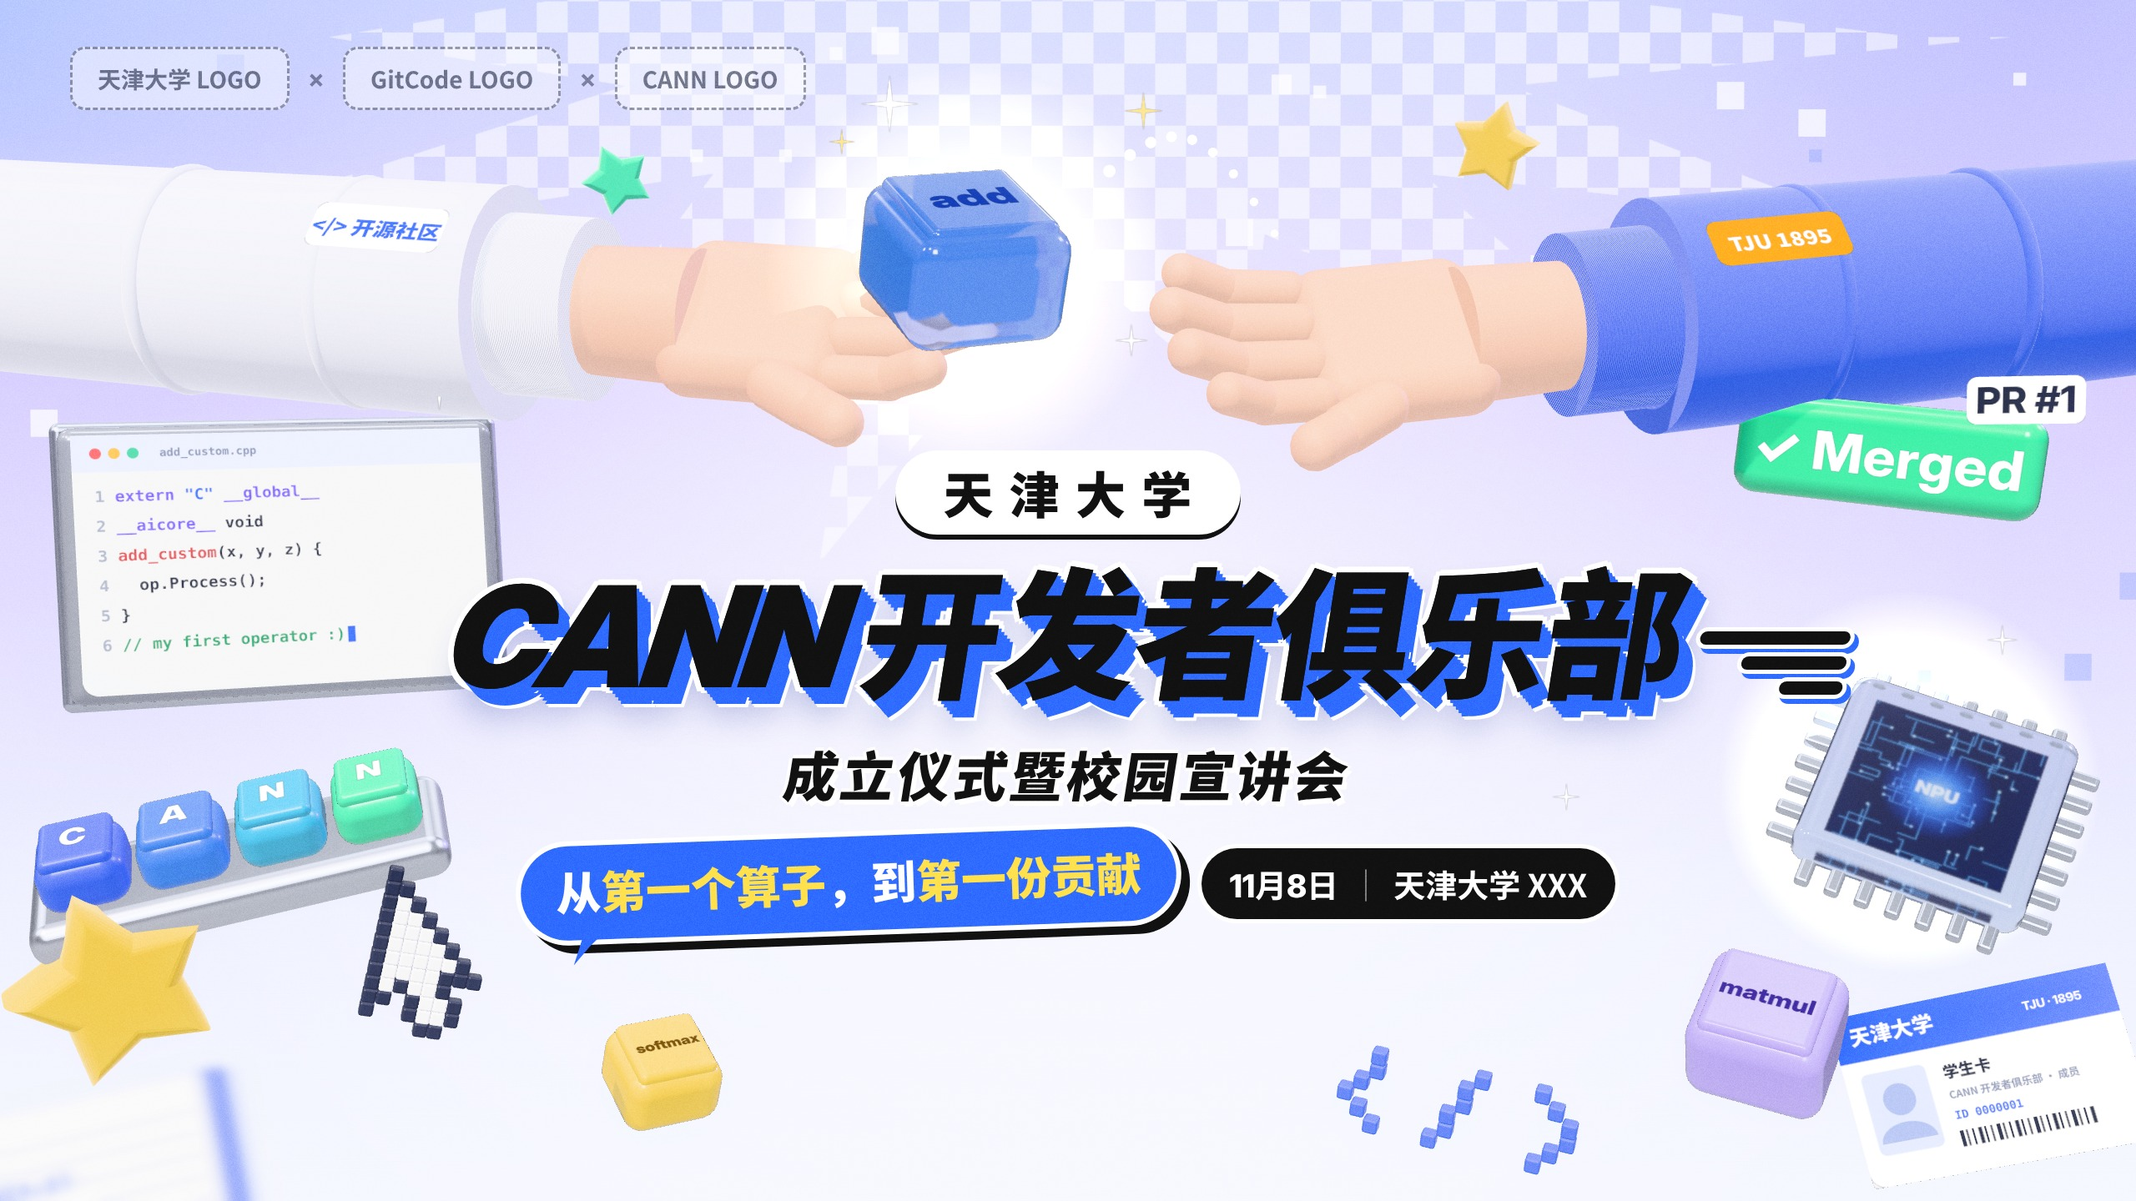
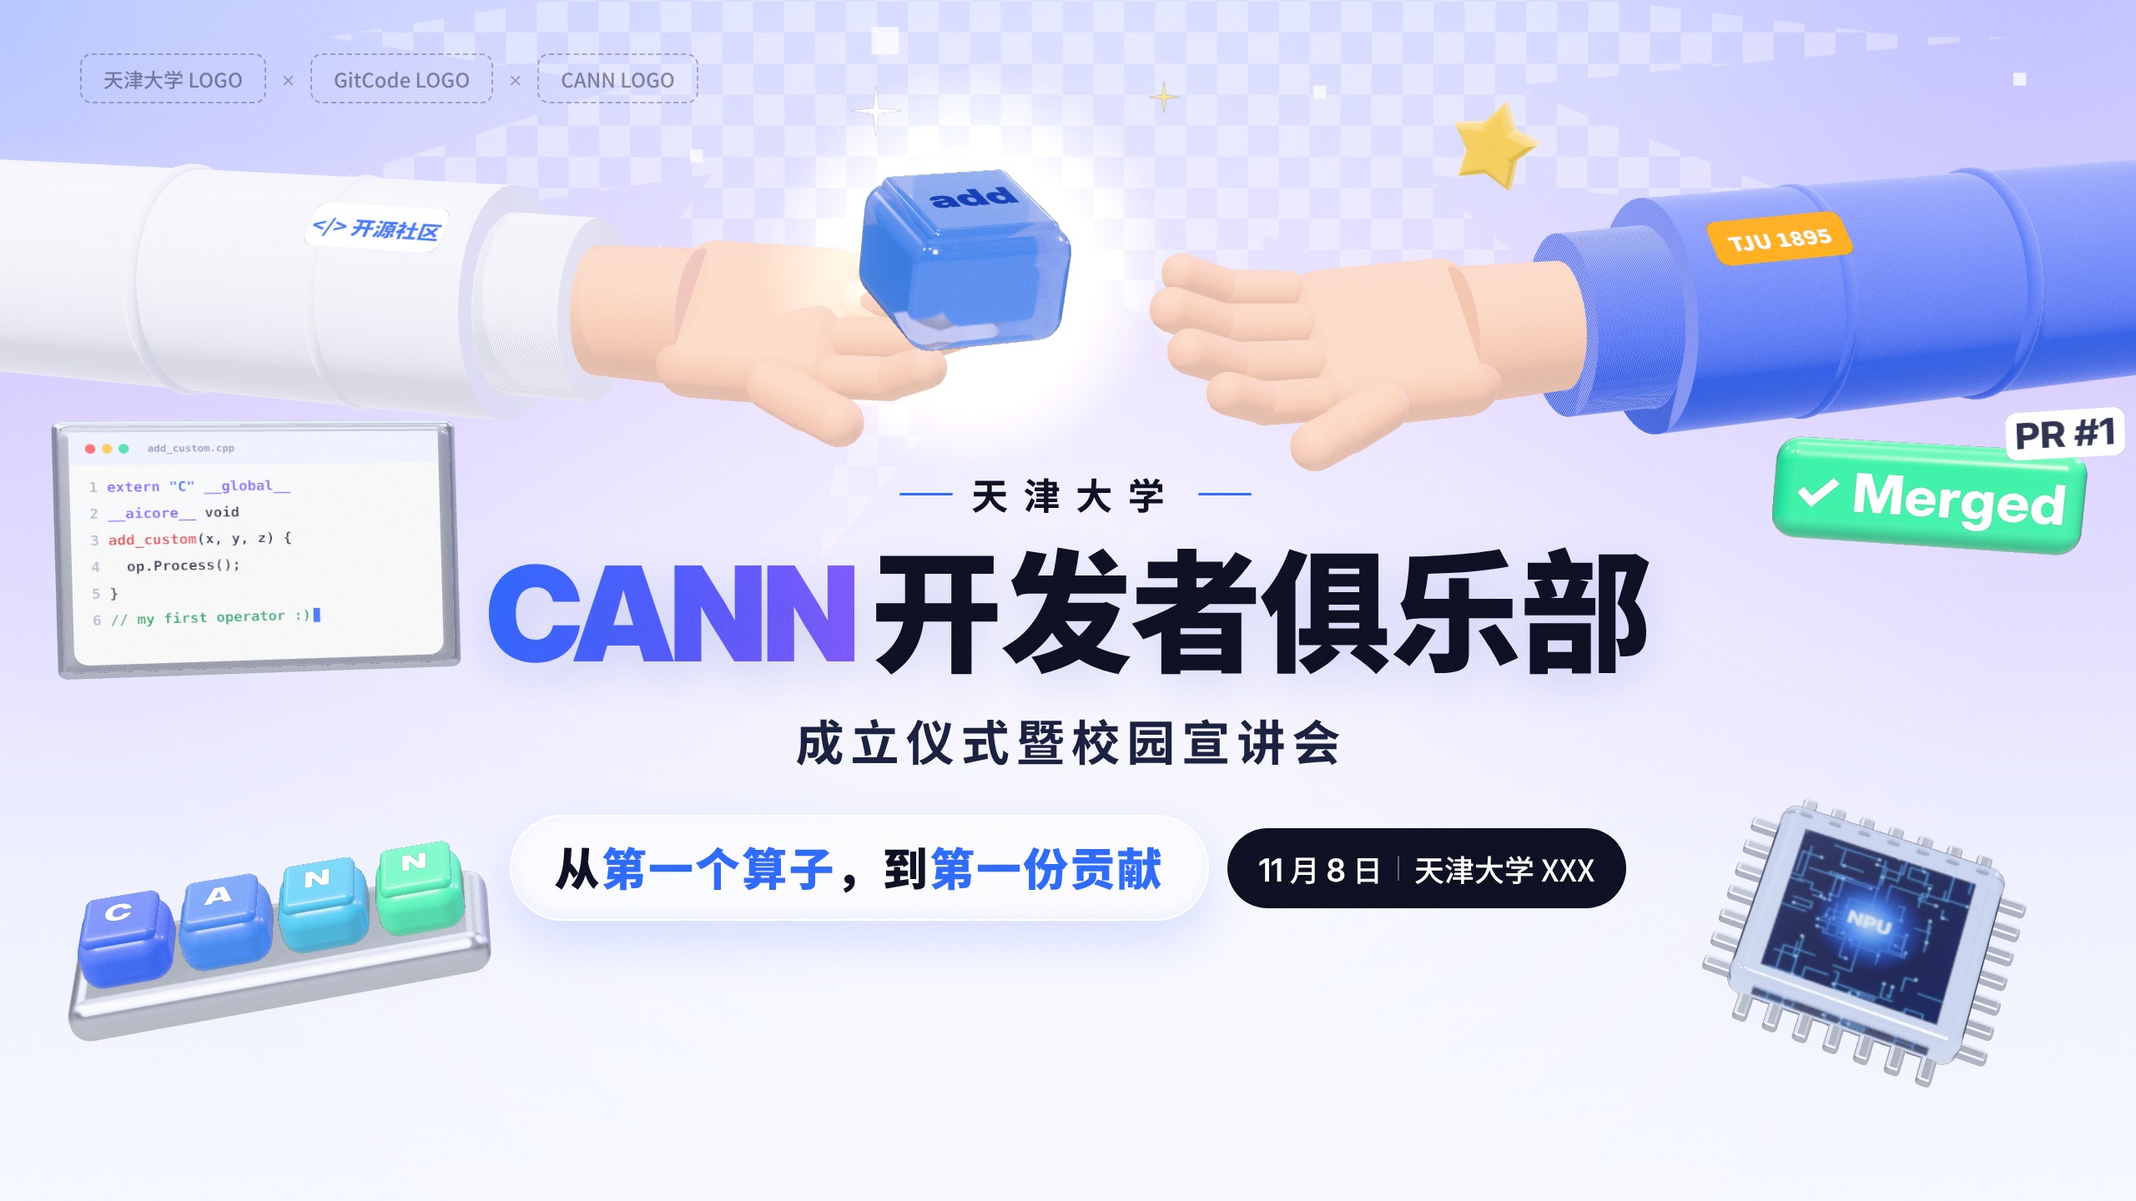
v1.3: fewer objects, refined title treatment; TJU KV round 2
Claude-Session: https://claude.ai/code/session_018XP7ZsHq4uNgpqYNwfhGvH

diff --git a/examples/tju-cann/v4/scene.html b/examples/tju-cann/v4/scene.html
@@ -68,11 +68,11 @@ function layerAll(o, l){ o.traverse(m=>m.layers.set(l)); }
     const cx=w*0.5, cy=h*0.18; const pts=14;
     for(let i=0;i<=pts*2;i++){ const a=i/(pts*2)*Math.PI*2; const r=(i%2? 0.13:0.27+0.06*Math.sin(i*1.7))*w; const x=cx+Math.cos(a)*r*1.25, y=cy+Math.sin(a)*r*0.6; i?g.lineTo(x,y):g.moveTo(x,y); }
     g.closePath(); g.clip();
-    const s=34; for(let y=0;y<h;y+=s) for(let x=0;x<w;x+=s){ if(((x/s)+(y/s))%2==0){ g.fillStyle='rgba(255,255,255,0.55)'; g.fillRect(x,y,s,s);} }
+    const s=34; for(let y=0;y<h;y+=s) for(let x=0;x<w;x+=s){ if(((x/s)+(y/s))%2==0){ g.fillStyle='rgba(255,255,255,0.32)'; g.fillRect(x,y,s,s);} }
     g.restore();
     // pixel fragments
     let seed=7; const rnd=()=> (seed=(seed*16807)%2147483647)/2147483647;
-    for(let i=0;i<70;i++){ const x=rnd()*w, y=rnd()*h*0.6; const sz=[14,22,30][Math.floor(rnd()*3)];
+    for(let i=0;i<26;i++){ const x=rnd()*w, y=rnd()*h*0.6; const sz=[14,22,30][Math.floor(rnd()*3)];
       if(Math.abs(x-w/2)<w*0.3 && y>h*0.35) continue;
       g.fillStyle = rnd()<0.6?'rgba(255,255,255,0.75)':'rgba(150,170,255,0.45)'; g.fillRect(Math.round(x/sz)*sz, Math.round(y/sz)*sz, sz, sz); }
   });
@@ -144,10 +144,9 @@ const hg = glowSprite('rgba(170,210,255,0.7)', 6, 0.45); hg.position.copy(hero.p
 const sparkTex = canvasTex(256,256,(g,w,h)=>{ g.translate(128,128); g.fillStyle='#fff'; g.beginPath();
   for(let i=0;i<8;i++){ const a=i*Math.PI/4, r=i%2?18:120; g.lineTo(Math.cos(a)*r, Math.sin(a)*r);} g.closePath(); g.fill(); });
 function spark(x,y,z,s,col=0xffffff){ const m=new THREE.Sprite(new THREE.SpriteMaterial({map:sparkTex,color:col,transparent:true,depthWrite:false,toneMapped:false})); m.position.set(x,y,z); m.scale.set(s,s,1); scene.add(m); return m; }
-spark(-2.6,8.1,1,0.9); spark(1.1,8.0,1,0.6,0xFFE680); spark(0.9,4.6,2,0.5); spark(-3.2,7.4,2,0.4,0xFFE680);
-spark(-9.5,4.0,0,0.7); spark(9.0,5.2,0,0.6,0xFFE680); spark(14.2,0.2,0,0.5); spark(-13.0,-2.8,0,0.5,0xFFE680); spark(7.6,-2.2,0,0.45);
+spark(-2.8,8.0,1,0.8); spark(1.4,8.2,1,0.5,0xFFE680);
+spark(-8.6,5.6,0,0.5); spark(8.8,6.0,0,0.45,0xFFE680);
 // dotted pass trail from keycap toward right hand
-for(let i=0;i<9;i++){ const t=i/8; const x=0.6+t*2.4, y=7.1+Math.sin(t*Math.PI)*0.9-t*0.9; const d=new THREE.Mesh(new THREE.SphereGeometry(0.09-0.004*i,12,12), new THREE.MeshBasicMaterial({color:0xffffff,toneMapped:false})); d.position.set(x,y,1.2); scene.add(d); }
 
 // ---------- code window (left)
 {
@@ -174,13 +173,13 @@ for(let i=0;i<9;i++){ const t=i/8; const x=0.6+t*2.4, y=7.1+Math.sin(t*Math.PI)*
   });
   const sc = new THREE.Mesh(new THREE.PlaneGeometry(6.0,3.94), new THREE.MeshBasicMaterial({map:screen, transparent:true, toneMapped:false}));
   sc.position.z=0.24; g.add(sc);
-  g.position.set(-12.2, 1.4, -1); g.rotation.set(-0.08, 0.38, 0.06); scene.add(g); shadowAll(frame);
+  g.scale.setScalar(0.9); g.position.set(-12.6, 1.6, -1); g.rotation.set(-0.06, 0.30, 0.03); scene.add(g); shadowAll(frame);
   // CANN keycaps on tray
   const tray = new THREE.Group();
   const base = new THREE.Mesh(new RoundedBoxGeometry(6.0,0.7,2.0,5,0.3), phys({color:0xE3E7F2, metalness:1, roughness:0.25})); tray.add(base);
   const cols=[0x2F6BFF,0x3E8BF5,0x46B5D8,0x4FDDAA];
   'CANN'.split('').forEach((ch,i)=>{ const k=keycap({w:1.25,h:0.9,d:1.25,color:cols[i],text:ch,font:'900 420px "Inter Display","Inter"'}); k.position.set(-2.1+i*1.4,0.7,0); tray.add(k); });
-  tray.position.set(-12.4,-3.2,0.5); tray.rotation.set(0.55,0.32,0.04); shadowAll(tray); scene.add(tray);
+  tray.position.set(-11.8,-4.5,0.5); tray.rotation.set(0.5,0.26,0.02); shadowAll(tray); scene.add(tray);
 }
 
 // ---------- pixel cursor
@@ -200,7 +199,7 @@ tagv.position.set(4.6,-6.6,-2); tagv.rotation.set(0.15,-0.35,-0.1); scene.add(ta
   const b = new THREE.Mesh(new RoundedBoxGeometry(4.4,1.55,0.7,6,0.6), phys({color:0x2FCF8E, roughness:0.18, clearcoat:1, clearcoatRoughness:0.05})); g.add(b);
   const l = label('✓ Merged', 3.9, 1.2, {font:'800 230px "Inter Display","Inter","DejaVu Sans"', color:'#ffffff', px:1100}); l.position.z=0.37; g.add(l);
   const pr = label('PR #1', 1.6, 0.7, {font:'800 200px "Inter Display","Inter"', color:'#1D2440', bg:'#FFFFFF', px:600}); pr.position.set(1.8,1.05,0.4); pr.rotation.z=0.12; g.add(pr);
-  g.position.set(12.4, 3.0, 0); g.rotation.set(0.1,-0.4,-0.08); shadowAll(b); scene.add(g);
+  g.position.set(13.0, 2.4, 0); g.rotation.set(0.08,-0.32,-0.04); shadowAll(b); scene.add(g);
 }
 // ---------- glass AI chip (right)
 {
@@ -215,8 +214,8 @@ tagv.position.set(4.6,-6.6,-2); tagv.rotation.set(0.15,-0.35,-0.1); scene.add(ta
   const shell = new THREE.Mesh(new RoundedBoxGeometry(3.4,0.7,3.4,5,0.25), phys({color:0xE6F0FF, transmission:1, thickness:0.8, roughness:0.05, ior:1.5, clearcoat:1})); shell.position.y=0.08; g.add(shell);
   const pinM = phys({color:0xD8DDE8, metalness:1, roughness:0.2});
   for(let i=0;i<7;i++){ const o=-1.35+i*0.45; [[o,1.85,0],[o,-1.85,0],[1.85,o,1],[-1.85,o,1]].forEach(([a,b,rot])=>{ const p=new THREE.Mesh(new RoundedBoxGeometry(0.22,0.18,0.5,2,0.06),pinM); if(rot){p.position.set(a,-0.1,b);p.rotation.y=Math.PI/2;} else p.position.set(a,-0.1,b); g.add(p); }); }
-  g.position.set(13.2,-2.3,0); g.rotation.set(0.95,-0.5,0.15); scene.add(g);
-  const cg = glowSprite('rgba(120,180,255,0.9)', 6, 0.6); cg.position.set(13.2,-2.1,-1); scene.add(cg);
+  g.position.set(12.2,-4.3,0); g.rotation.set(0.9,-0.45,0.1); scene.add(g);
+  const cg = glowSprite('rgba(120,180,255,0.9)', 6, 0.6); cg.position.set(13.2,-2.1,-1); /*no chip glow*/
 }
 // matmul keycap (lower right), softmax (lower left back)
 const mk = keycap({w:2.0,h:1.4,d:2.0,color:0xC6B4FF,text:'matmul',font:'800 190px "Inter Display","Inter"', fg:'#3B2A99'}); mk.position.set(10.4,-5.6,1); mk.rotation.set(0.7,-0.5,0.2); scene.add(mk);
@@ -226,7 +225,7 @@ const sk = keycap({w:1.6,h:1.1,d:1.6,color:0xFFD84D,text:'softmax',font:'800 170
 function starShape(R=1, r=0.5){ const s=new THREE.Shape(); for(let i=0;i<10;i++){ const a=Math.PI/2+i*Math.PI/5, rad=i%2?r:R; const x=Math.cos(a)*rad, y=Math.sin(a)*rad; i?s.lineTo(x,y):s.moveTo(x,y);} s.closePath(); return s; }
 function plushStar(size,color){ const geo=new THREE.ExtrudeGeometry(starShape(size,size*0.52),{depth:size*0.35,bevelEnabled:true,bevelThickness:size*0.32,bevelSize:size*0.22,bevelSegments:8,curveSegments:4}); geo.center();
   const m=new THREE.Mesh(geo, phys({color, roughness:0.95, sheen:1, sheenColor:new THREE.Color(0xffffff), sheenRoughness:0.35})); m.castShadow=true; return m; }
-const st1 = plushStar(1.15,0xFFD84D); st1.position.set(-14.0,-4.6,1.5); st1.rotation.set(0.2,0.5,0.3); scene.add(st1);
+const st1 = plushStar(1.15,0xFFD84D); st1.scale.setScalar(0.7); st1.position.set(14.6,5.6,-2); st1.rotation.set(0.2,0.5,0.3); scene.add(st1);
 const st2 = plushStar(0.55,0xFFD84D); st2.position.set(6.8,8.0,-2); st2.rotation.set(0.3,-0.4,-0.2); scene.add(st2);
 const st3 = plushStar(0.45,0x4FDDAA); st3.position.set(-7.4,7.6,-3); st3.rotation.set(0.2,0.3,0.4); scene.add(st3);
 
@@ -247,7 +246,7 @@ const FG = new THREE.Group(); scene.add(FG);
   const g=new THREE.Group();
   const b=new THREE.Mesh(new RoundedBoxGeometry(4.6,2.92,0.14,4,0.07), phys({color:0xffffff, roughness:0.3, clearcoat:1})); g.add(b);
   const f=new THREE.Mesh(new THREE.PlaneGeometry(4.6,2.92), new THREE.MeshBasicMaterial({map:card, transparent:true, toneMapped:false})); f.position.z=0.075; g.add(f);
-  g.scale.setScalar(0.85); g.position.set(13.3,-6.0,2); g.rotation.set(-0.3,-0.45,0.18); scene.add(g); shadowAll(b);
+  /* card removed */
 }
 {
   const g=new THREE.Group();
@@ -270,6 +269,7 @@ if(mode==='main'){ camera.layers.set(0); }
 else { camera.layers.set(1); scene.children.forEach(o=>{ if(o.isMesh && o.material.map && o.position.z<-30) o.visible=false; }); key.layers.enableAll(); renderer.setClearColor(0x000000,0); }
 key.layers.enableAll(); rim.layers.enableAll();
 scene.traverse(o=>{ if(o.isLight) o.layers.enableAll(); });
+[cursor,tagv,mk,sk,st3,FG].forEach(o=>o.visible=false);
 renderer.render(scene, camera);
 window.DONE = true;
 </script></body></html>

diff --git a/examples/tju-cann/v4/layout.html b/examples/tju-cann/v4/layout.html
@@ -1,53 +1,40 @@
 <!doctype html><html><head><meta charset="utf-8"><style>
 *{margin:0;padding:0;box-sizing:border-box}
-body{width:2560px;height:1440px;position:relative;overflow:hidden;font-family:"Noto Sans CJK SC";background:#EEF0FF}
+body{width:2560px;height:1440px;position:relative;overflow:hidden;font-family:"Noto Sans CJK SC";background:#EEF0FF;color:#0E1124}
 #hero{position:absolute;inset:0;width:2560px;height:1440px}
-.logos{position:absolute;left:84px;top:56px;display:flex;align-items:center;gap:22px}
-.logo{height:76px;padding:0 30px;border:3px dashed rgba(29,36,64,.45);border-radius:18px;display:flex;align-items:center;font:700 28px "Noto Sans CJK SC";color:rgba(29,36,64,.6);background:rgba(255,255,255,.45)}
-.x{font:700 30px Inter;color:rgba(29,36,64,.5)}
-.block{position:absolute;left:0;right:0;top:540px;display:flex;flex-direction:column;align-items:center}
-.l1{font:900 60px "Noto Sans CJK SC";letter-spacing:.32em;color:#111;padding-left:.32em;
- background:#fff;border-radius:99px;padding:6px 40px 8px 58px;box-shadow:0 6px 0 #111}
-.l2{position:relative;margin-top:26px;transform:skewX(-9deg);white-space:nowrap;line-height:1}
-.l2 span{font-size:168px;font-weight:900;color:#111;letter-spacing:-4px;
- -webkit-text-stroke:0;paint-order:stroke fill;
- text-shadow:
-  0 0 0 #111,
-  4px 4px 0 #2F6BFF,8px 8px 0 #2F6BFF,12px 12px 0 #2F6BFF,16px 16px 0 #2F6BFF,
-  -7px 0 0 #fff,7px 0 0 #fff,0 -7px 0 #fff,0 7px 0 #fff,-5px -5px 0 #fff,5px -5px 0 #fff,-5px 5px 0 #fff,5px 5px 0 #fff,
-  20px 20px 0 #2F6BFF,22px 22px 0 #fff,24px 24px 0 #fff, 14px 30px 40px rgba(40,60,160,.35)}
-.l2 .en{font-family:"Inter Display","Inter";font-weight:900;font-style:italic;letter-spacing:-6px;margin-right:22px}
-.speed{position:absolute;right:-200px;bottom:14px;width:180px}
-.speed i{display:block;height:16px;background:#111;border-radius:10px;margin-top:14px;box-shadow:0 0 0 5px #fff, 6px 6px 0 5px #2F6BFF}
-.speed i:nth-child(1){width:100%}.speed i:nth-child(2){width:70%;margin-left:30%}.speed i:nth-child(3){width:42%;margin-left:58%}
-.speedL{position:absolute;left:-220px;top:40px;width:180px}
-.speedL i{display:block;height:14px;background:#111;border-radius:10px;margin-top:14px;box-shadow:0 0 0 5px #fff}
-.speedL i:nth-child(1){width:55%;margin-left:45%}.speedL i:nth-child(2){width:100%}
-.l3{margin-top:34px;font:900 64px "Noto Sans CJK SC";color:#111;letter-spacing:.06em;transform:skewX(-9deg);
- text-shadow:-4px 0 0 #fff,4px 0 0 #fff,0 -4px 0 #fff,0 4px 0 #fff,6px 6px 0 #fff}
-.row{margin-top:30px;display:flex;align-items:center;gap:30px}
-.bubble{position:relative;background:#2F6BFF;color:#fff;font:900 54px "Noto Sans CJK SC";padding:14px 42px 20px;border-radius:999px;
- box-shadow:0 0 0 6px #fff,10px 10px 0 6px #111;transform:rotate(-2deg)}
-.bubble:after{content:"";position:absolute;left:70px;bottom:-30px;border:22px solid transparent;border-top:30px solid #2F6BFF;border-left:12px solid #2F6BFF;transform:skewX(-20deg)}
-.bubble b{color:#FFE14D}
-.pill{background:#111;color:#fff;font:700 38px "Noto Sans CJK SC";padding:15px 34px;border-radius:999px;box-shadow:0 0 0 5px #fff}
-.pill em{font-style:normal;font-family:"Inter Display","Inter";font-weight:800}
-.pill .sep{opacity:.5;margin:0 14px}
-.tbd{font:500 22px "Noto Sans CJK SC";color:rgba(29,36,64,.45);position:absolute;right:60px;bottom:40px}
-#grain{position:absolute;inset:0;mix-blend-mode:overlay;opacity:.35}
+.logos{position:absolute;left:96px;top:64px;display:flex;align-items:center;gap:18px}
+.logo{height:60px;padding:0 26px;border:2px dashed rgba(14,17,36,.28);border-radius:14px;display:flex;align-items:center;font:500 24px "Noto Sans CJK SC";color:rgba(14,17,36,.45)}
+.x{font:300 26px Inter;color:rgba(14,17,36,.35)}
+.block{position:absolute;left:0;right:0;top:560px;display:flex;flex-direction:column;align-items:center;text-align:center}
+.l1{display:flex;align-items:center;gap:22px;font:700 44px "Noto Sans CJK SC";letter-spacing:.42em;padding-left:.42em;color:#0E1124}
+.l1:before,.l1:after{content:"";width:64px;height:3px;border-radius:3px;background:#2F6BFF}
+.l2{margin-top:22px;white-space:nowrap;line-height:1;font-size:158px;font-weight:900;letter-spacing:-.015em;
+  text-shadow:0 18px 50px rgba(47,80,200,.16)}
+.l2 .en{font-family:"Inter Display";font-weight:900;letter-spacing:-.035em;margin-right:.08em;
+  background:linear-gradient(100deg,#2F6BFF 0%,#5B5CFF 55%,#8A5CFF 100%);-webkit-background-clip:text;background-clip:text;color:transparent;
+  padding:.1em .04em;margin-left:-.04em}
+.l3{margin-top:30px;font:700 58px "Noto Sans CJK SC";letter-spacing:.14em;padding-left:.14em;color:#1B2140}
+.row{margin-top:48px;display:flex;align-items:center;gap:22px}
+.slogan{font:900 54px "Noto Sans CJK SC";color:#0E1124;letter-spacing:.04em;padding:20px 52px 24px;border-radius:999px;
+  background:rgba(255,255,255,.62);border:2px solid rgba(255,255,255,.95);
+  box-shadow:0 24px 60px rgba(47,90,255,.16), inset 0 -6px 18px rgba(120,140,255,.10)}
+.slogan b{color:#2F6BFF}
+.info{font:500 36px "Noto Sans CJK SC";color:#1B2140;display:flex;align-items:center;gap:18px;padding:22px 38px;border-radius:999px;background:#0E1124;color:#fff}
+.info em{font:600 38px "Inter Display";font-style:normal}
+.info i{width:2px;height:30px;background:rgba(255,255,255,.35)}
+#grain{position:absolute;inset:0;mix-blend-mode:overlay;opacity:.22}
 </style></head><body>
 <img id="hero" src="hero_post.png">
 <div class="logos"><div class="logo">天津大学 LOGO</div><span class="x">×</span><div class="logo">GitCode LOGO</div><span class="x">×</span><div class="logo">CANN LOGO</div></div>
 <div class="block">
  <div class="l1">天津大学</div>
- <div class="l2"><span class="en">CANN</span><span>开发者俱乐部</span><div class="speed"><i></i><i></i><i></i></div></div>
+ <div class="l2"><span class="en">CANN</span>开发者俱乐部</div>
  <div class="l3">成立仪式暨校园宣讲会</div>
- <div class="row"><div class="bubble">从<b>第一个算子</b>，到<b>第一份贡献</b></div>
- <div class="pill"><em>11</em>月<em>8</em>日<span class="sep">｜</span>天津大学 XXX</div></div>
+ <div class="row"><div class="slogan">从<b>第一个算子</b>，到<b>第一份贡献</b></div>
+ <div class="info"><span><em>11</em> 月 <em>8</em> 日</span><i></i>天津大学 XXX</div></div>
 </div>
 <canvas id="grain" width="2560" height="1440"></canvas>
 <script>
 const c=document.getElementById('grain').getContext('2d');const d=c.createImageData(2560,1440);
-for(let i=0;i<d.data.length;i+=4){const v=128+(Math.random()-.5)*60;d.data[i]=d.data[i+1]=d.data[i+2]=v;d.data[i+3]=255;}c.putImageData(d,0,0);
-</script>
-</body></html>
+for(let i=0;i<d.data.length;i+=4){const v=128+(Math.random()-.5)*50;d.data[i]=d.data[i+1]=d.data[i+2]=v;d.data[i+3]=255;}c.putImageData(d,0,0);
+</script></body></html>

diff --git a/references/genres.md b/references/genres.md
@@ -26,6 +26,8 @@
 - **"连接"用手或角色的动作画**：递和接、一起按、搭桥。避免直接复制参考里的动作（抖音是碰拳）。
 - **标题通常是黑色粗体定制字**（不是彩色渐变字），亮底上对比最强；副标黑体，信息做成胶囊按钮。
 - **物件呈弧形环绕标题区**，最大的物件不超过画面高度 25%，视觉重心在上半部分。
+- **宁少勿乱**：主角 1 组 + 左右各 2 个物件（共 4–6 个）就够热闹。物件角度控制在相近的范围内、左右成对；同一类东西只出现一次（不要三颗键帽 + 两张卡 + 四颗星）。小星星、闪光不超过 3 个。
+- **标题字要精致，不要老气**：不用硬投影（偏移的实色阴影、多层挤出）、粗白描边、贴纸式外框、假斜体（把中文 skew 倾斜）——这些是 2015 年前后的电商 / 综艺字效。当下做法：干净的超粗黑体、字距收紧、英文单词用渐变填色、只加一层很柔的大半径投影；slogan 放进半透明磨砂胶囊，信息用黑色胶囊。
 - **现场大屏兼作合影背景时**，底部 10–15% 只放装饰，标题上移。
 
 **评分权重调整**：

diff --git a/references/lessons.md b/references/lessons.md
@@ -143,6 +143,12 @@
 - **注意**：袖子上的徽章要贴在朝向镜头的那一面，镜像的手要把贴图再镜像回来；文字贴片宽度要小于圆柱可见宽度，否则会被裁掉。
 - **规则**：`genres.md` A 的主图路线。
 
+### L25 元素乱、字效老气 [评审]
+- **症状**：天大 KV 第一版，用户评价"元素有点乱，文字效果不够精致，阴影看起来老气"。画面有 13 个物件、9 颗闪光；标题用了白描边 + 北洋蓝实色挤出 + 速度线 + 假斜体，slogan 气泡带偏移实色阴影。
+- **原因**：把"热闹"理解成"多"；把参考图的手绘标题字理解成"加描边加投影"。
+- **修正**：物件减到主角 + 左右各 2 个，左右成对、角度收敛；标题改为干净超粗黑体 + CANN 渐变 + 柔投影，slogan 用磨砂胶囊。
+- **规则**：`genres.md` A 的"宁少勿乱""标题字要精致"。
+
 ### L15 看不到搜索到的参考图 [自检]
 - **症状**：图片搜索结果只展示给用户，执行者看不到图，拆解只能靠猜。
 - **原因**：工具限制。

diff --git a/README.md b/README.md
@@ -72,6 +72,7 @@ python scripts/render.py examples/galaxy-devcon/config.json --out /tmp/kv-out
 
 ## 版本
 
+- v1.3：运营 / 校园类"宁少勿乱"物件规则、标题字去老气规则；经验 L25；天大示例 v4 第二轮
 - v1.2：没有生图模型时的潮玩物件路线（three.js 圆角几何体 + PBR + 前景虚化）；天大示例 v4 成品 KV；经验 L24
 - v1.1：运营 / 校园类 3D 潮玩的分区提示词结构（含字版当风格板、无字版出主图）；genres A 硬要求（技术元素长在物件上、黑色定制标题字、合影安全区）；经验 L23；天大示例 v3 风格板与 image-2 提示词
 - v1.0：需求分析前置为关卡（brief-analysis.md）；活动类型与视觉惯例（genres.md），评分按类型调权；风格板关卡；运营类标题字设计；需求验收清单作为第一道自检；经验 L19–L22
